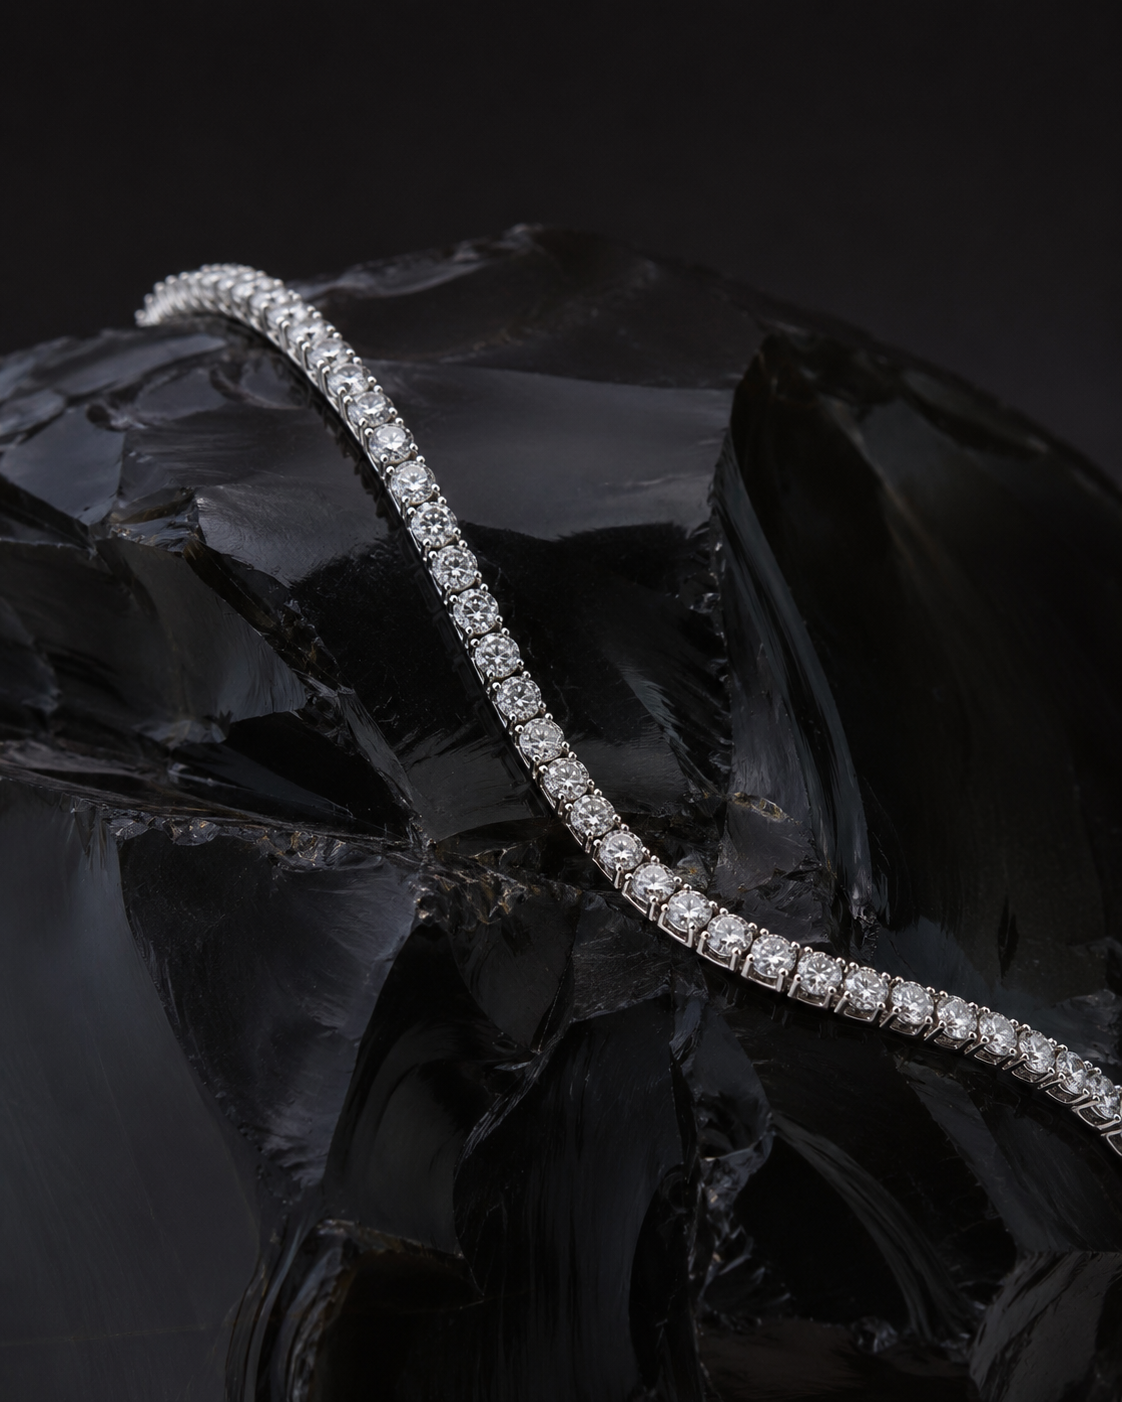
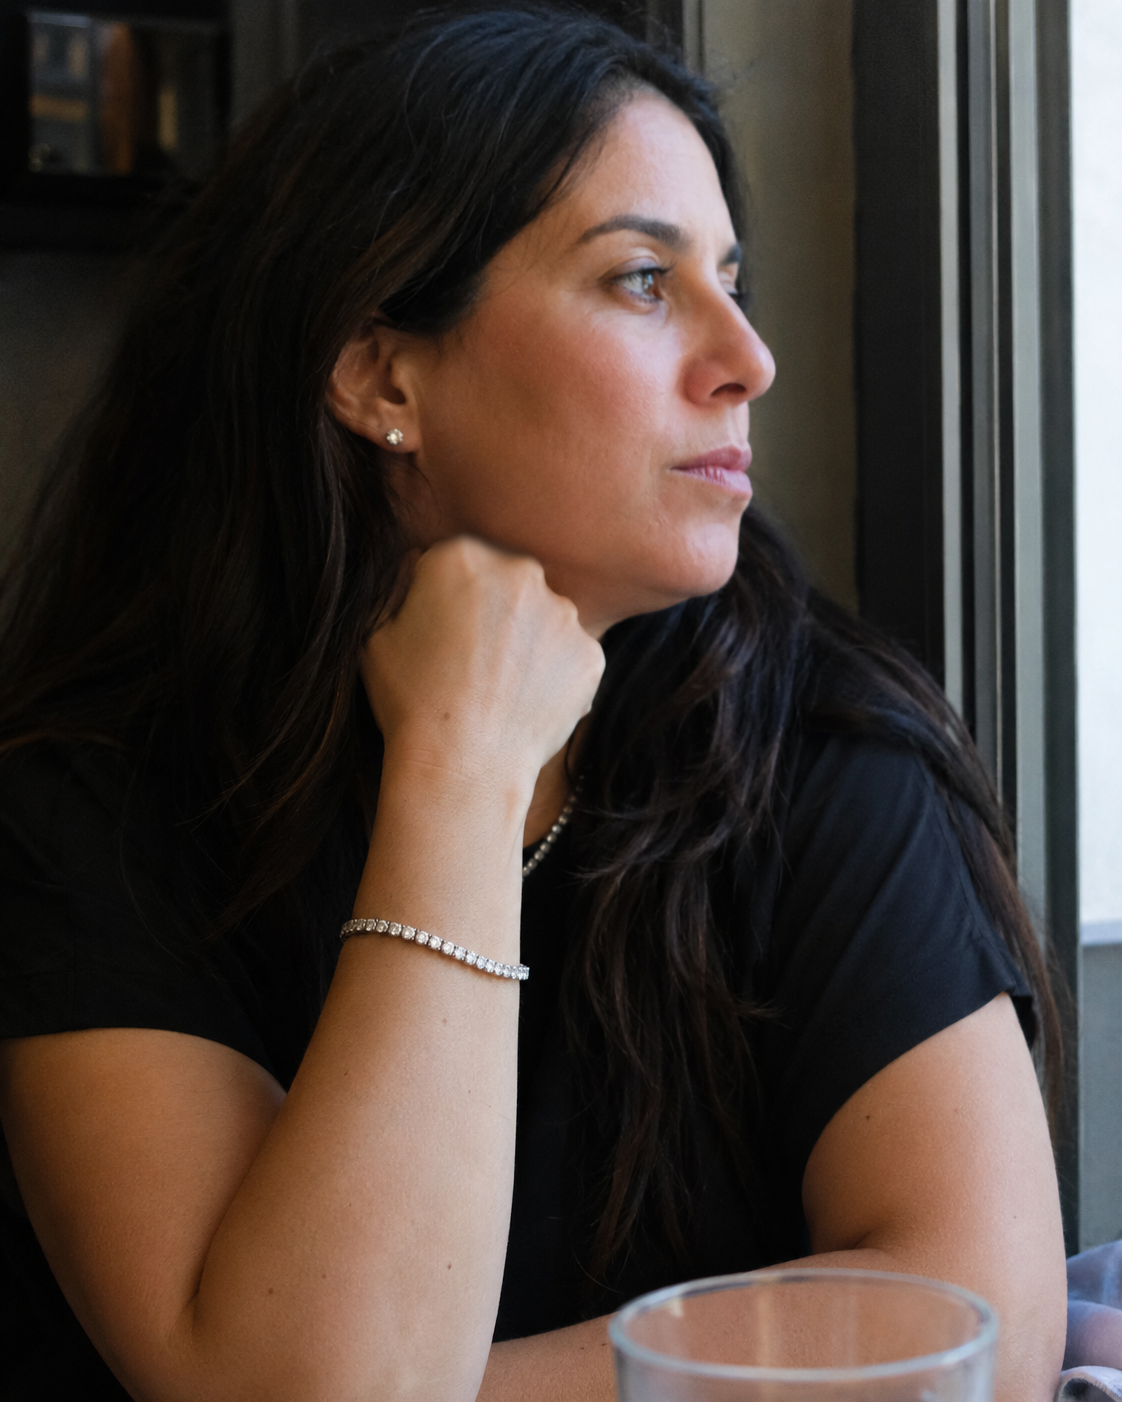
Redesign: 4-col category grid, best sellers, bridal full-bleed, photo strip

diff --git a/index.html b/index.html
@@ -236,49 +236,45 @@ button { font-family: var(--font); cursor: pointer; border: none; background: no
 
 .cat-grid {
   display: grid;
-  grid-template-columns: repeat(5, 1fr);
-  grid-template-rows: clamp(260px, 30vw, 440px);
+  grid-template-columns: repeat(4, 1fr);
   gap: 4px;
 }
 .cat-card {
-  position: relative; overflow: hidden; display: block; background: #ddd;
+  display: flex; flex-direction: column;
+  text-decoration: none; background: #fff; overflow: hidden;
 }
-.cat-card img {
+.cat-card-img {
+  aspect-ratio: 4/5;
+  overflow: hidden; position: relative;
+}
+.cat-card-img img {
   width: 100%; height: 100%; object-fit: cover; display: block;
   transition: transform 0.8s cubic-bezier(0.25,0.46,0.45,0.94);
 }
-.cat-card:hover img { transform: scale(1.05); }
-.cat-card-overlay { display: none; }
-.cat-card-label {
-  position: absolute; bottom: 0; left: 0; right: 0;
-  padding: 80px 28px 28px;
-  background: linear-gradient(to top, rgba(0,0,0,0.72) 0%, rgba(0,0,0,0.18) 60%, transparent 100%);
-  display: flex; flex-direction: column; justify-content: flex-end;
+.cat-card:hover .cat-card-img img { transform: scale(1.05); }
+.cat-card-footer {
+  padding: 16px 20px 20px;
+  background: #fff;
 }
-.cat-card-label span {
-  font-size: 14px; font-weight: 700; letter-spacing: 2.5px;
-  text-transform: uppercase; color: #ffffff; display: block; margin-bottom: 8px;
+.cat-card-footer span {
+  display: block;
+  font-size: 12px; font-weight: 700; letter-spacing: 2.5px;
+  text-transform: uppercase; color: #1c1c1e;
+  margin-bottom: 5px;
 }
-.cat-card-label a {
-  font-size: 10px; font-weight: 700; letter-spacing: 2px; text-transform: uppercase;
-  color: rgba(255,255,255,0.80); display: inline-flex; align-items: center; gap: 6px;
-  opacity: 0; transform: translateY(6px);
-  transition: opacity 0.35s, transform 0.35s; text-decoration: none;
+.cat-card-footer small {
+  font-size: 11px; font-weight: 500; letter-spacing: 0.3px;
+  color: rgba(0,0,0,0.40); display: block;
+  transition: color 0.2s;
 }
-.cat-card:hover .cat-card-label a { opacity: 1; transform: translateY(0); }
+.cat-card:hover .cat-card-footer small { color: #2a6da4; }
 .cat-more { display: flex; align-items: center; justify-content: center; margin-top: 32px; }
 @media (max-width: 860px) {
-  .cat-grid {
-    grid-template-columns: repeat(3, 1fr);
-    grid-template-rows: clamp(200px, 36vw, 280px) clamp(200px, 36vw, 280px);
-  }
+  .cat-grid { grid-template-columns: repeat(2, 1fr); }
 }
 @media (max-width: 480px) {
-  .cat-grid {
-    grid-template-columns: repeat(2, 1fr);
-    grid-template-rows: clamp(180px, 44vw, 240px) clamp(180px, 44vw, 240px) clamp(180px, 44vw, 240px);
-  }
-  .cat-card:last-child { grid-column: 1 / -1; }
+  .cat-grid { grid-template-columns: repeat(2, 1fr); }
+  .cat-card-img { aspect-ratio: 3/4; }
 }
 
 /* ─── SHAPE GUIDE ──────────────────────────────────────────────────── */
@@ -342,30 +338,17 @@ button { font-family: var(--font); cursor: pointer; border: none; background: no
 .shapes-be-item:hover .shapes-be-name { color: var(--gold); }
 
 /* ─── BRIDAL FEATURE ───────────────────────────────────────────────── */
-.bridal { background: var(--dark); overflow: hidden; }
-.bridal-split {
-  display: grid;
-  grid-template-columns: 1fr 1fr;
-  min-height: 640px;
+.bridal {
+  position: relative; min-height: 580px; display: flex; align-items: center;
+  padding: clamp(80px,10vw,130px) 0; overflow: hidden; background: var(--dark);
 }
-.bridal-text-panel {
-  background: var(--dark);
-  display: flex; flex-direction: column; justify-content: center;
-  padding: clamp(64px,8vw,100px) clamp(32px,5vw,80px);
+.bridal-bg { position: absolute; inset: 0; }
+.bridal-bg img { width:100%; height:100%; object-fit:cover; object-position: center top; }
+.bridal-overlay {
+  position: absolute; inset: 0;
+  background: linear-gradient(to right, rgba(7,24,40,0.97) 0%, rgba(7,24,40,0.90) 45%, rgba(7,24,40,0.68) 70%, rgba(7,24,40,0.25) 100%);
 }
-.bridal-photo-panel {
-  overflow: hidden; position: relative; background: var(--dark-2);
-}
-.bridal-photo-panel img {
-  width: 100%; height: 100%; object-fit: cover;
-  object-position: center top; display: block;
-  transition: transform 0.8s ease;
-}
-.bridal-photo-panel:hover img { transform: scale(1.03); }
-@media (max-width: 860px) {
-  .bridal-split { grid-template-columns: 1fr; }
-  .bridal-photo-panel { min-height: 480px; }
-}
+.bridal-content { position:relative; z-index:2; max-width:520px; }
 .bridal-tag {
   display: inline-block;
   font-size: 10px; font-weight: 700; letter-spacing: 2px; text-transform: uppercase;
@@ -1297,17 +1280,82 @@ body { background: #f5f7f8; color: #1c1c1e; }
 /* ── CATEGORIES → light ──────────────────────────────────────── */
 .categories { background: #f5f7f8; }
 .categories .sec-title-w { color: #1c1c1e; }
+.categories .sec-title-d { color: #1c1c1e; }
 .categories .eyebrow-w,
 .categories .eyebrow-gold { color: #2a6da4; }
 .categories .sec-sub-w { color: rgba(0,0,0,0.60); }
-.cat-card {
-  background: var(--dark) !important;
-  border: 0.5px solid rgba(0,0,0,0.09) !important;
-}
-/* Keep gradient overlay — white labels on all bg images */
-.cat-card-label span { color: #ffffff !important; text-shadow: 0 2px 8px rgba(0,0,0,0.7); }
-.cat-card-label a { color: rgba(255,255,255,0.88) !important; }
+.cat-card { background: #ffffff !important; border: 0.5px solid rgba(0,0,0,0.06) !important; }
+.cat-card-footer { background: #ffffff !important; }
+.cat-card-footer span { color: #1c1c1e !important; }
+.cat-card-footer small { color: rgba(0,0,0,0.40) !important; }
+.cat-card:hover .cat-card-footer small { color: #2a6da4 !important; }
 .btn-ghost-d { border-color: rgba(0,0,0,0.18) !important; color: #1c1c1e !important; }
+
+/* ── BEST SELLERS → cream ────────────────────────────────────── */
+.bestsellers {
+  background: #F2EFEC;
+  padding: clamp(64px, 8vw, 96px) 0;
+}
+.bestsellers .sec-title-w { color: #1c1c1e; }
+.bestsellers .eyebrow-gold { color: #2a6da4; }
+.bestsellers .sec-sub-w { color: rgba(0,0,0,0.60); }
+.bs-grid {
+  display: grid;
+  grid-template-columns: repeat(4, 1fr);
+  gap: 12px;
+  margin-top: 48px;
+}
+.bs-card {
+  background: #ffffff;
+  display: flex; flex-direction: column;
+  text-decoration: none;
+  border: 0.5px solid rgba(0,0,0,0.07);
+  transition: border-color 0.25s, transform 0.25s;
+  overflow: hidden;
+}
+.bs-card:hover { border-color: rgba(42,109,164,0.28); transform: translateY(-2px); }
+.bs-img-wrap {
+  aspect-ratio: 1/1;
+  overflow: hidden;
+  background: #f5f7f8;
+  position: relative;
+}
+.bs-img-wrap img {
+  width: 100%; height: 100%; object-fit: cover;
+  transition: transform 0.55s ease;
+}
+.bs-card:hover .bs-img-wrap img { transform: scale(1.04); }
+.bs-badge {
+  position: absolute; top: 0; left: 0;
+  font-size: 9px; font-weight: 700; letter-spacing: 1.5px; text-transform: uppercase;
+  padding: 5px 11px;
+  background: #2a6da4; color: #fff;
+}
+.bs-info { padding: 18px 18px 20px; flex: 1; display: flex; flex-direction: column; }
+.bs-type {
+  font-size: 10px; font-weight: 600; letter-spacing: 2px; text-transform: uppercase;
+  color: rgba(42,109,164,0.75); margin-bottom: 6px;
+}
+.bs-name {
+  font-size: 14px; font-weight: 600; line-height: 1.4;
+  color: #1c1c1e; margin-bottom: 10px; flex: 1;
+}
+.bs-price {
+  font-size: 16px; font-weight: 700; color: #1c1c1e; letter-spacing: -0.3px;
+}
+.bs-cta {
+  display: block; text-align: center;
+  padding: 13px;
+  font-size: 10px; font-weight: 700; letter-spacing: 1.5px; text-transform: uppercase;
+  background: #f5f7f8; color: rgba(0,0,0,0.55);
+  border-top: 1px solid rgba(0,0,0,0.07);
+  transition: background 0.2s, color 0.2s;
+}
+.bs-card:hover .bs-cta { background: #2a6da4; color: #fff; }
+.bs-footer { text-align: center; margin-top: 40px; }
+@media (max-width: 860px) {
+  .bs-grid { grid-template-columns: repeat(2, 1fr); }
+}
 
 /* ── SHAPE GUIDE → warm cream ────────────────────────────────── */
 .shapes { background: #F2EFEC; }
@@ -1418,8 +1466,7 @@ body { background: #f5f7f8; color: #1c1c1e; }
 .btn-gold { background: #2a6da4; color: #ffffff; }
 .hero .btn-ghost-w { border-color: rgba(178,204,221,0.45) !important; }
 
-/* ── BRIDAL → split layout ──────────────────────────────────── */
-.bridal-text-panel { background: var(--dark) !important; }
+/* ── BRIDAL → full-bleed ────────────────────────────────────── */
 .bridal-tag {
   border-color: rgba(178,204,221,0.40) !important;
   color: #b2ccdd !important;
@@ -1961,24 +2008,40 @@ body { overflow-x: hidden; }
   <div>
     <div class="cat-grid fade-up">
       <a class="cat-card" href="https://leondiamond.com/pages/all-earrings">
-        <img src="images/ld-cat-earrings.png" alt="Earrings" loading="lazy">
-        <div class="cat-card-label"><span>Earrings</span><a href="https://leondiamond.com/pages/all-earrings">Explore →</a></div>
+        <div class="cat-card-img">
+          <img src="images/ld-cat-earrings.png" alt="Earrings" loading="lazy">
+        </div>
+        <div class="cat-card-footer">
+          <span>Earrings</span>
+          <small>Shop Earrings →</small>
+        </div>
       </a>
       <a class="cat-card" href="https://leondiamond.com/pages/all-rings">
-        <img src="images/ld-cat-rings.png" alt="Rings" loading="lazy">
-        <div class="cat-card-label"><span>Rings</span><a href="https://leondiamond.com/pages/all-rings">Explore →</a></div>
+        <div class="cat-card-img">
+          <img src="images/ld-cat-rings.png" alt="Rings" loading="lazy">
+        </div>
+        <div class="cat-card-footer">
+          <span>Rings</span>
+          <small>Shop Rings →</small>
+        </div>
       </a>
       <a class="cat-card" href="https://leondiamond.com/collections/natural-bracelets-tennis">
-        <img src="images/ld-cat-bracelets.png" alt="Bracelets" loading="lazy">
-        <div class="cat-card-label"><span>Bracelets</span><a href="https://leondiamond.com/collections/natural-bracelets-tennis">Explore →</a></div>
+        <div class="cat-card-img">
+          <img src="images/ld-cat-bracelets.png" alt="Bracelets" loading="lazy">
+        </div>
+        <div class="cat-card-footer">
+          <span>Bracelets</span>
+          <small>Shop Bracelets →</small>
+        </div>
       </a>
       <a class="cat-card" href="https://leondiamond.com/pages/all-necklaces">
-        <img src="images/ld-cat-necklaces.png" alt="Necklaces" loading="lazy">
-        <div class="cat-card-label"><span>Necklaces</span><a href="https://leondiamond.com/pages/all-necklaces">Explore →</a></div>
-      </a>
-      <a class="cat-card" href="https://leondiamond.com/pages/ldbridal">
-        <img src="images/ld-cat-bridal.png" alt="Bridal" loading="lazy">
-        <div class="cat-card-label"><span>Bridal</span><a href="https://leondiamond.com/pages/ldbridal">Explore →</a></div>
+        <div class="cat-card-img">
+          <img src="images/ld-cat-necklaces.png" alt="Necklaces" loading="lazy">
+        </div>
+        <div class="cat-card-footer">
+          <span>Necklaces</span>
+          <small>Shop Necklaces →</small>
+        </div>
       </a>
     </div>
     <div class="cat-more fade-up">
@@ -2015,10 +2078,77 @@ body { overflow-x: hidden; }
 
 
 
+<!-- ═══ BEST SELLERS ═══════════════════════════════════════════════════ -->
+<section class="bestsellers">
+  <div class="wrap">
+    <div class="sec-header fade-up">
+      <p class="eyebrow eyebrow-gold">MOST LOVED</p>
+      <h2 class="sec-title-w">Best Sellers</h2>
+      <p class="sec-sub-w">Our most-gifted, most-worn, most-loved pieces — crafted in NYC's Diamond District.</p>
+    </div>
+    <div class="bs-grid fade-up">
+      <a class="bs-card" href="https://leondiamond.com/collections/lab-grown-earrings">
+        <div class="bs-img-wrap">
+          <div class="bs-badge">Best Seller</div>
+          <img src="images/ld-prod-earring.png" alt="Lab Grown Diamond Studs 2ct" loading="lazy">
+        </div>
+        <div class="bs-info">
+          <p class="bs-type">Lab Grown · IGI Certified</p>
+          <p class="bs-name">Lab Grown Diamond Stud Earrings 2ct</p>
+          <p class="bs-price">From $660</p>
+        </div>
+        <span class="bs-cta">Shop Now →</span>
+      </a>
+      <a class="bs-card" href="https://leondiamond.com/collections/lab-grown-earrings">
+        <div class="bs-img-wrap">
+          <div class="bs-badge">Top Pick</div>
+          <img src="images/ld-cat-earrings.png" alt="Lab Grown Diamond Studs 4ct" loading="lazy">
+        </div>
+        <div class="bs-info">
+          <p class="bs-type">Lab Grown · IGI Certified</p>
+          <p class="bs-name">Lab Grown Diamond Stud Earrings 4ct</p>
+          <p class="bs-price">From $1,175</p>
+        </div>
+        <span class="bs-cta">Shop Now →</span>
+      </a>
+      <a class="bs-card" href="https://leondiamond.com/collections/lab-grown-earrings">
+        <div class="bs-img-wrap">
+          <img src="images/ld-strip-6.png" alt="Lab Grown Diamond Studs 6ct" loading="lazy">
+        </div>
+        <div class="bs-info">
+          <p class="bs-type">Lab Grown · IGI Certified</p>
+          <p class="bs-name">Lab Grown Diamond Stud Earrings 6ct</p>
+          <p class="bs-price">From $2,040</p>
+        </div>
+        <span class="bs-cta">Shop Now →</span>
+      </a>
+      <a class="bs-card" href="https://leondiamond.com/collections/natural-bracelets-tennis">
+        <div class="bs-img-wrap">
+          <img src="images/ld-prod-bracelet.png" alt="Diamond Tennis Bracelet" loading="lazy">
+        </div>
+        <div class="bs-info">
+          <p class="bs-type">Natural Diamond · Certified</p>
+          <p class="bs-name">Diamond Tennis Bracelet</p>
+          <p class="bs-price">From $2,508</p>
+        </div>
+        <span class="bs-cta">Shop Now →</span>
+      </a>
+    </div>
+    <div class="bs-footer fade-up">
+      <a href="https://leondiamond.com/collections/all" class="btn btn-ghost-d">View All Products</a>
+    </div>
+  </div>
+</section>
+
+
 <!-- ═══ BRIDAL FEATURE ═════════════════════════════════════════════════ -->
 <section class="bridal">
-  <div class="bridal-split">
-    <div class="bridal-text-panel fade-up">
+  <div class="bridal-bg">
+    <img src="images/ld-cat-bridal.png" alt="Leon Diamond Bridal Collection" loading="lazy">
+  </div>
+  <div class="bridal-overlay"></div>
+  <div class="wrap">
+    <div class="bridal-content fade-up">
       <div class="bridal-tag">Bridal Collection · 2026</div>
       <h2 class="bridal-title">Begin with<br>a <em>Yes.</em></h2>
       <p class="bridal-sub">From the first conversation to the moment she says yes — we're here for every step. Engagement rings, wedding bands, and matching sets crafted in-house, exclusively for you.</p>
@@ -2026,11 +2156,6 @@ body { overflow-x: hidden; }
         <a href="https://leondiamond.com/pages/ldbridal" class="btn btn-gold">Explore Bridal</a>
         <a href="https://calendar.app.google/Mo1Qy1UMHJpx7uo49" class="bridal-link-text">Book Consultation →</a>
       </div>
-    </div>
-    <div class="bridal-photo-panel fade-up">
-      <a href="https://leondiamond.com/pages/ldbridal">
-        <img src="images/ld-cat-bridal.png" alt="Leon Diamond Bridal Collection" loading="lazy">
-      </a>
     </div>
   </div>
 </section>
@@ -2041,7 +2166,7 @@ body { overflow-x: hidden; }
 <!-- ═══ FANCY COLOR FEATURE ════════════════════════════════════════════ -->
 <section class="fancy">
   <div class="fancy-bg">
-    <img src="images/collection/IMG_8137.png" alt="Fancy Colored Diamond Jewelry" loading="lazy">
+    <img src="images/ld-fancy-color.png" alt="Fancy Colored Diamond Jewelry" loading="lazy">
   </div>
   <div class="fancy-overlay"></div>
   <div class="wrap">
@@ -2065,11 +2190,11 @@ body { overflow-x: hidden; }
 <!-- ═══ FANCY PHOTO STRIP ═════════════════════════════════════════════ -->
 <div class="fancy-strip fade-up">
   <div class="fancy-strip-inner">
-    <div class="fancy-strip-item"><img src="images/collection/download (1).png" alt="Leon Diamond Client" loading="lazy"></div>
-    <div class="fancy-strip-item"><img src="images/collection/download (2).png" alt="Leon Diamond Client" loading="lazy"></div>
-    <div class="fancy-strip-item"><img src="images/collection/download (10).png" alt="Leon Diamond Client" loading="lazy"></div>
-    <div class="fancy-strip-item"><img src="images/collection/download (11).png" alt="Leon Diamond Client" loading="lazy"></div>
-    <div class="fancy-strip-item"><img src="images/collection/download (12).png" alt="Leon Diamond Client" loading="lazy"></div>
+    <div class="fancy-strip-item"><img src="images/ld-strip-6.png" alt="Leon Diamond Client" loading="lazy"></div>
+    <div class="fancy-strip-item"><img src="images/ld-strip-7.png" alt="Leon Diamond Client" loading="lazy"></div>
+    <div class="fancy-strip-item"><img src="images/ld-strip-3.png" alt="Leon Diamond Client" loading="lazy"></div>
+    <div class="fancy-strip-item"><img src="images/ld-strip-4.png" alt="Leon Diamond Client" loading="lazy"></div>
+    <div class="fancy-strip-item"><img src="images/ld-strip-5.png" alt="Leon Diamond Client" loading="lazy"></div>
   </div>
 </div>
 